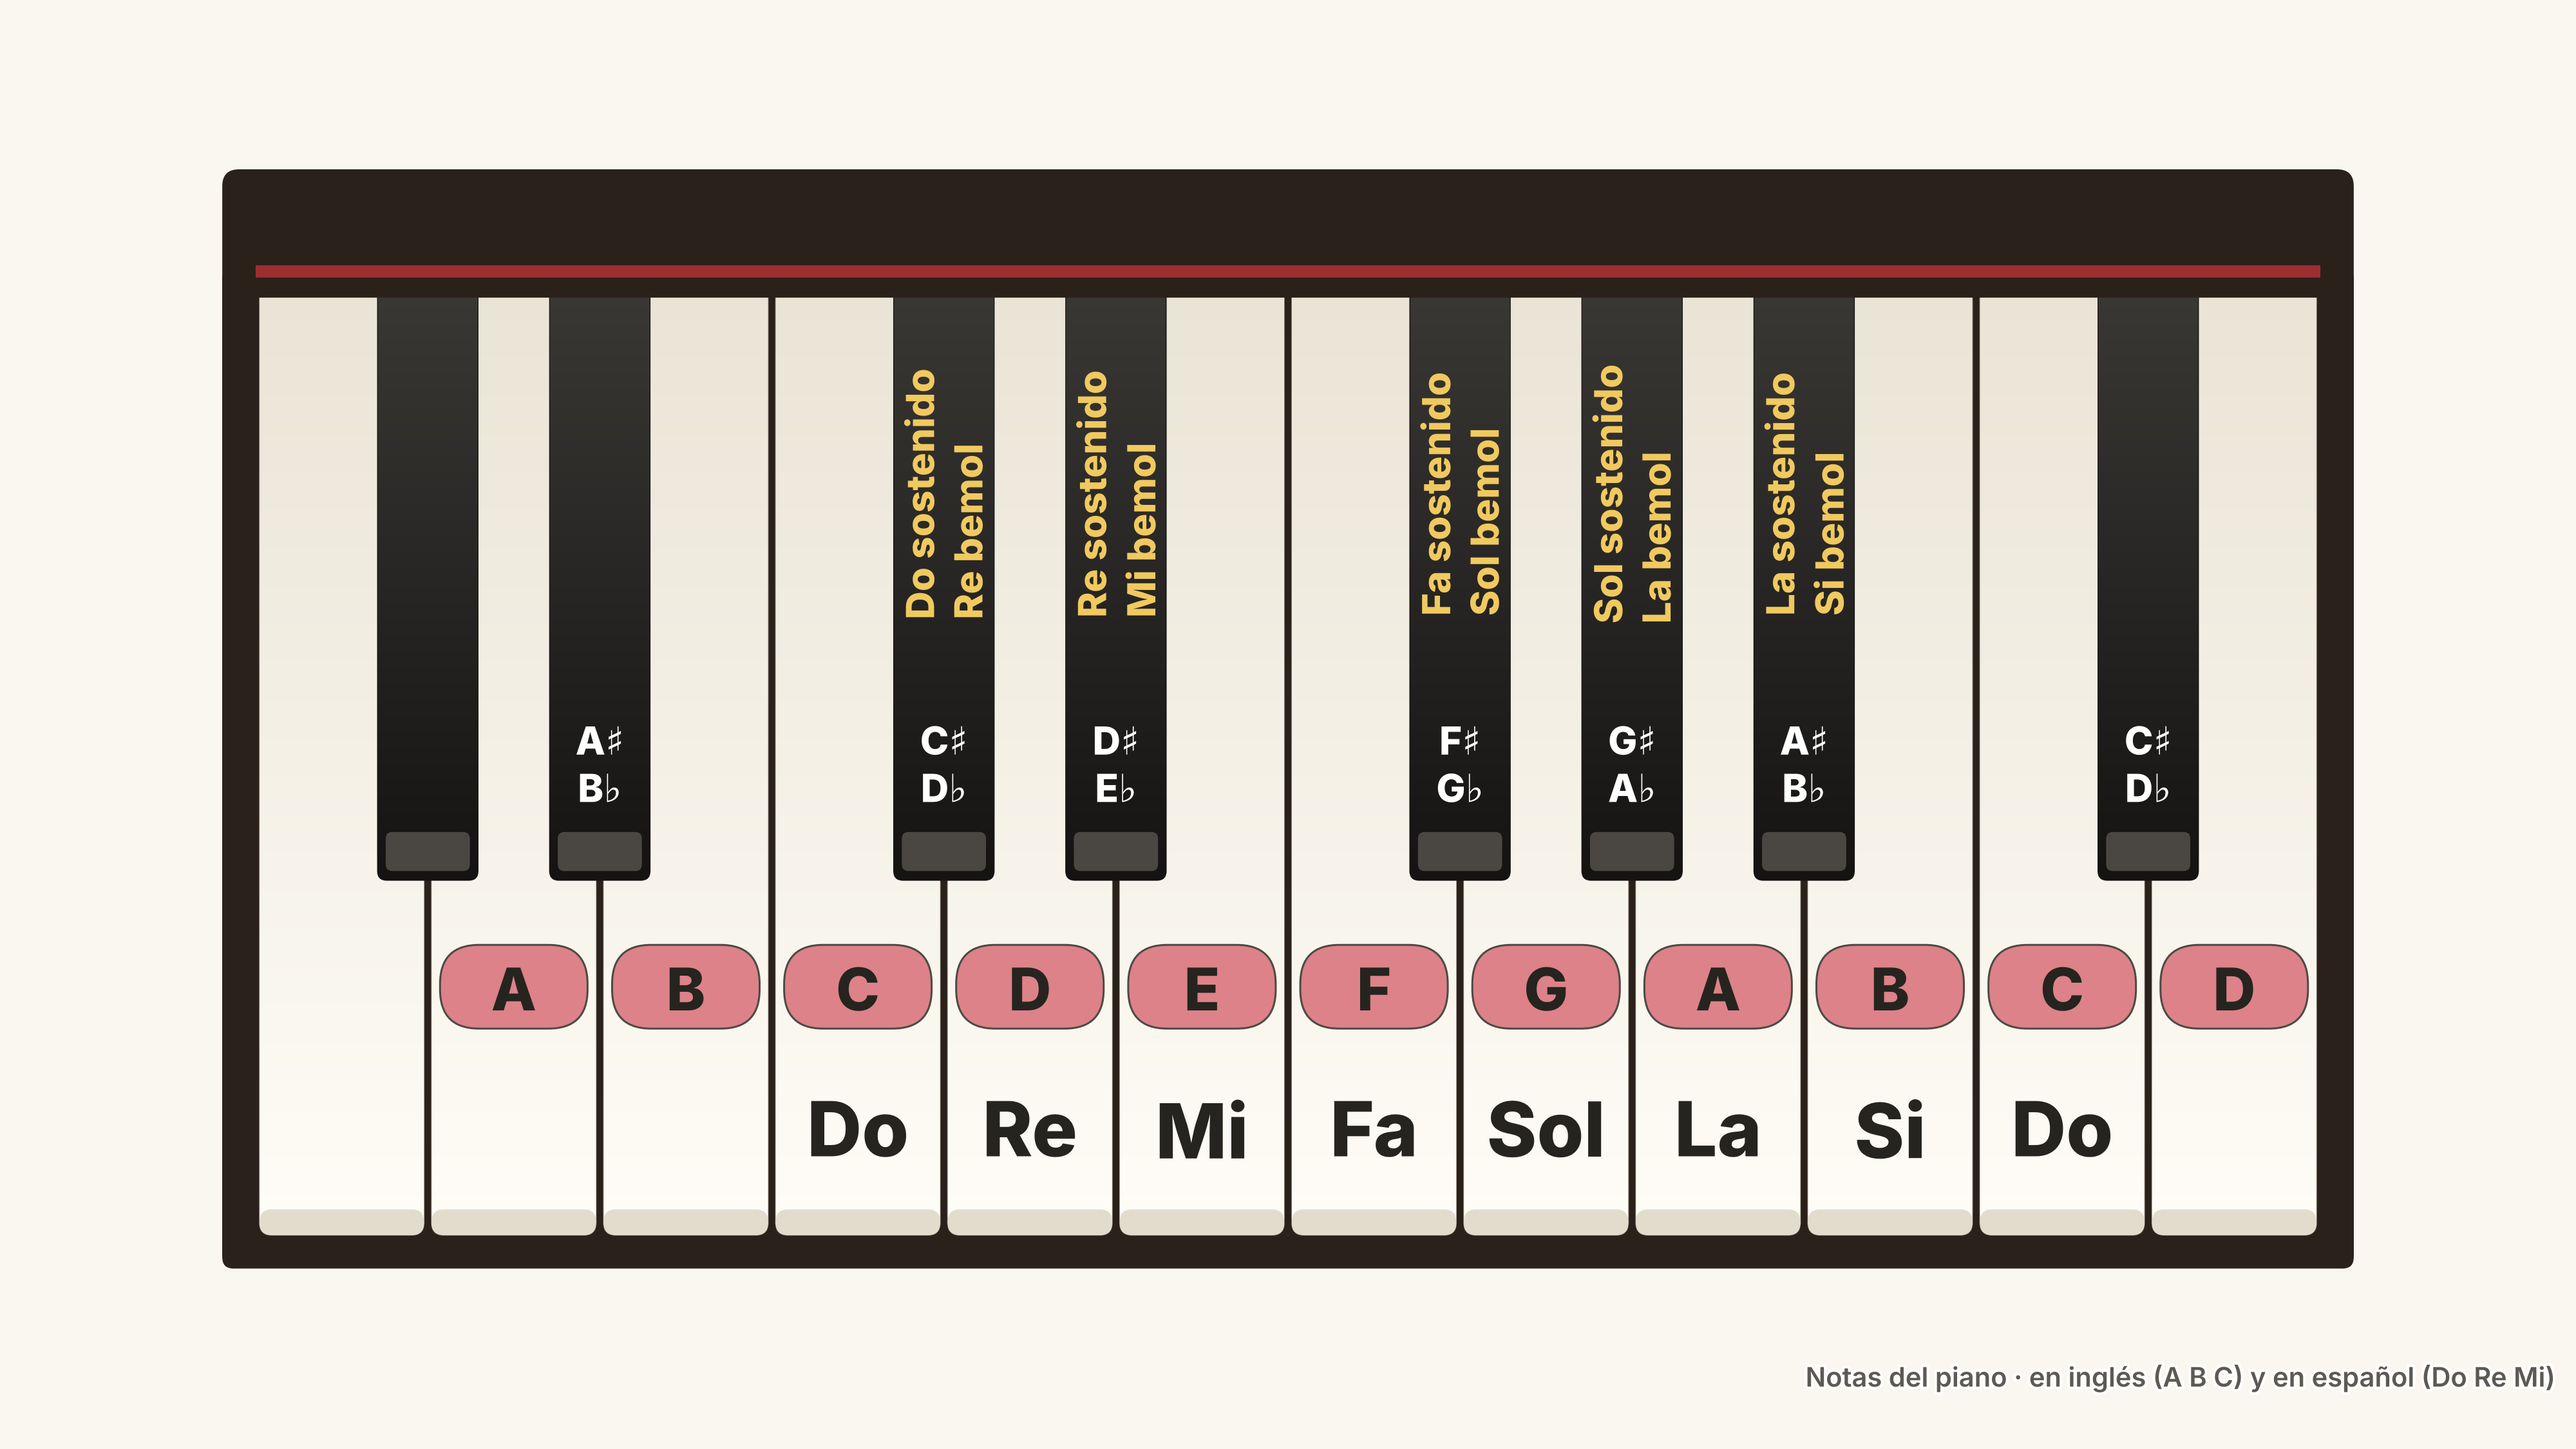
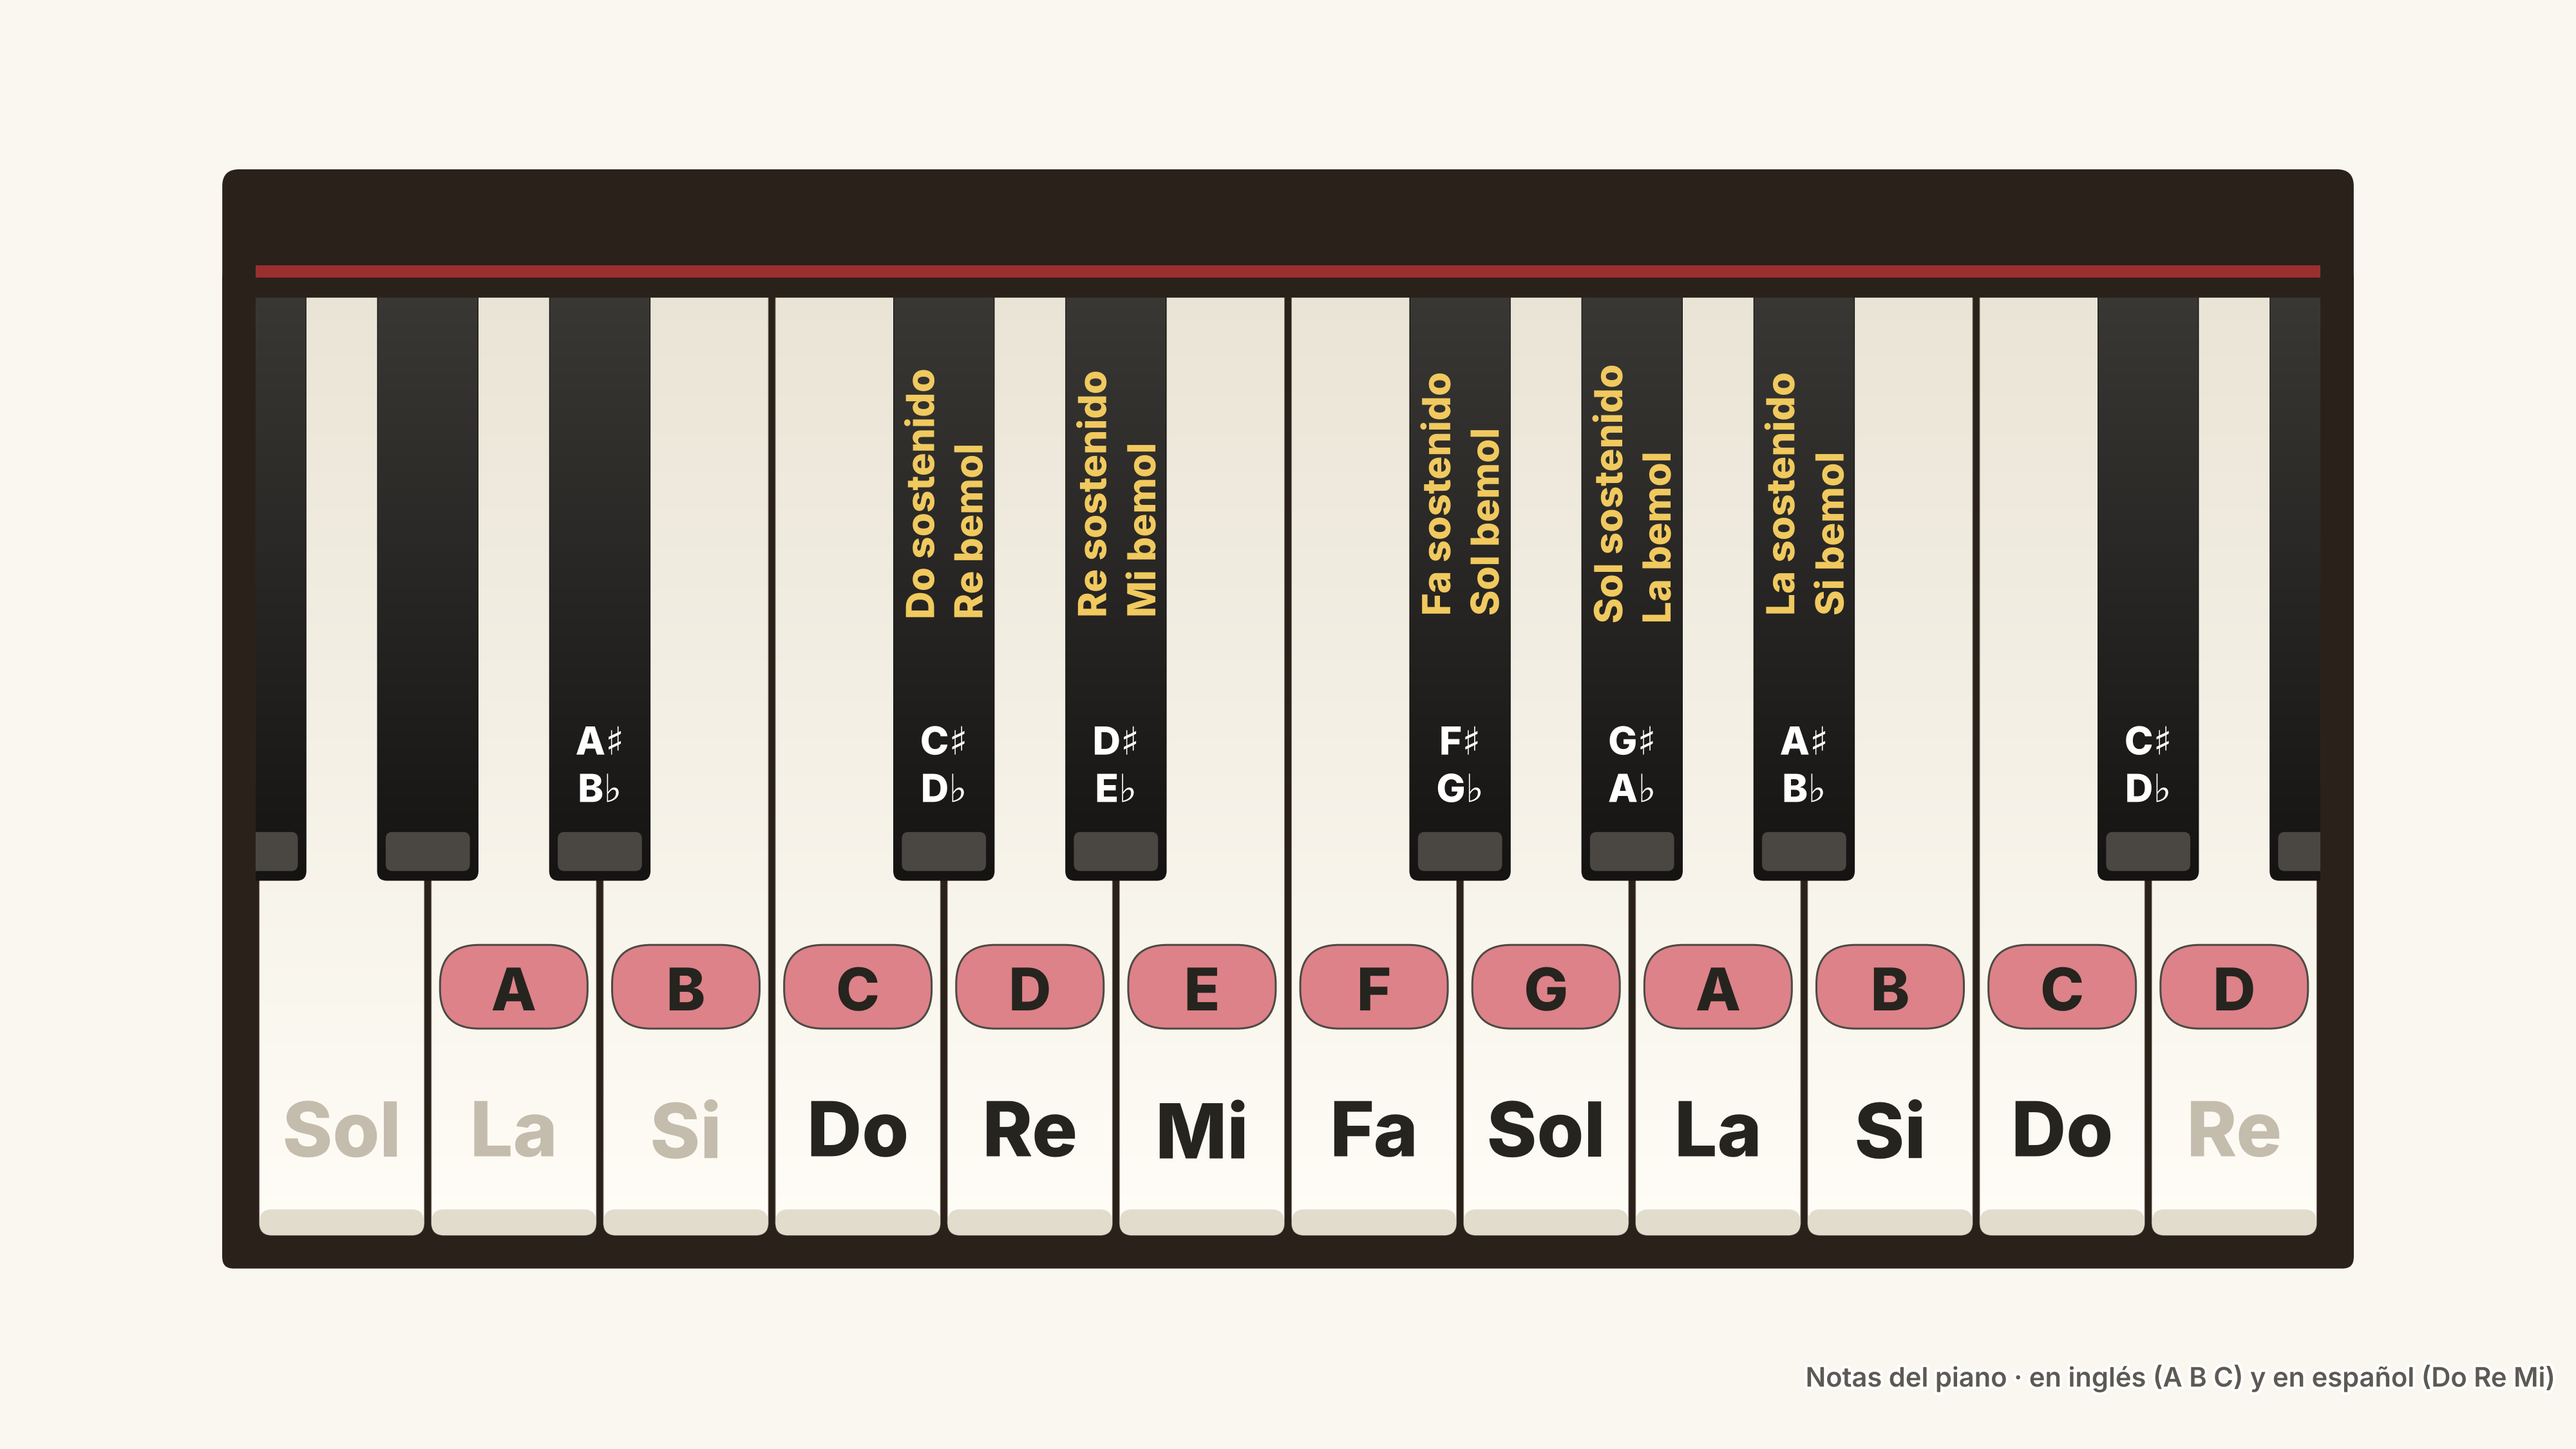
Piano: greyed solfège past the Do..Do octave, half black keys at both edges
Claude-Session: https://claude.ai/code/session_01EDKfW2ymmeBjWjJB1i7hni

diff --git a/tvmaps/maps_piano.py b/tvmaps/maps_piano.py
@@ -4,7 +4,9 @@ uses the same canvas, fonts, footer and palette.
 
 The keyboard runs from G (unlabelled, so the first name you read is A) up to
 the D above the second C. Letters go on every key from that A onwards; the
-solfège covers one octave, Do to Do. Black keys carry both sharp and flat
+solfège covers one octave, Do to Do, and carries on greyed out over the
+keys either side. Half black keys cut off at both ends keep the first G and
+the last D from reading as an F and a B. Black keys carry both sharp and flat
 names; inside that octave also the Spanish ones, spelled out ("Do sostenido",
 "Re bemol") and running up the key.
 
@@ -30,6 +32,13 @@ SOLFEO = {"C": "Do", "D": "Re", "E": "Mi", "F": "Fa", "G": "Sol", "A": "La",
 # A black key sits after these white keys (no black key after B or E).
 HAS_SHARP_AFTER = {"C", "D", "F", "G", "A"}
 NEXT = {"C": "D", "D": "E", "F": "G", "G": "A", "A": "B"}
+
+ORDER = "CDEFGAB"
+
+# Solfège outside the Do..Do octave: present but greyed out.
+GHOST_TEXT = "#c4bcac"
+GHOST_PILL = "#f1ece1"
+GHOST_EDGE = "#c4bcac"
 
 SHARP, FLAT = "♯", "♭"
 
@@ -181,44 +190,63 @@ def _render(theme_name, footer, big="letras", name=None):
 
         cx = x + kw / 2
         letter = note if i >= FIRST_LABEL else None
-        solfeo = (SOLFEO[note] if SOLFEO_RANGE[0] <= i <= SOLFEO_RANGE[1]
-                  else None)
+        # Outside the Do..Do octave the solfège is still shown, greyed out,
+        # so the names visibly carry on past both ends.
+        solfeo = SOLFEO[note]
+        ghost = not SOLFEO_RANGE[0] <= i <= SOLFEO_RANGE[1]
         large, boxed = (letter, solfeo) if big == "letras" else (solfeo, letter)
+        large_ghost = ghost and big == "solfeo"
+        boxed_ghost = ghost and big == "letras"
         if large:
             # "Sol" is the widest name; 98 pt keeps it clear of the key edges.
             size = 140 if big == "letras" else 98
             halo = "#ffffff" if theme_name == "colores" else None
             _text(ax, cx, KEY_BOTTOM + 190, large, size, "extrabold",
-                  style.LABEL_COLOR, halo=halo, halo_width=14, scale=scale)
+                  GHOST_TEXT if large_ghost else style.LABEL_COLOR,
+                  halo=halo, halo_width=14, scale=scale)
         if boxed:
             py = KEY_BOTTOM + 445
             pill_w, pill_h = kw - 44, 150
-            ax.add_patch(_key_patch(cx - pill_w / 2, py - pill_h / 2, pill_w,
-                                    pill_h, 70, facecolor=t["pill"],
-                                    edgecolor=style.BORDER_DARK,
-                                    linewidth=2.5 * scale, zorder=8))
+            ax.add_patch(_key_patch(
+                cx - pill_w / 2, py - pill_h / 2, pill_w, pill_h, 70,
+                facecolor=GHOST_PILL if boxed_ghost else t["pill"],
+                edgecolor=GHOST_EDGE if boxed_ghost else style.BORDER_DARK,
+                linewidth=2.5 * scale, zorder=8))
             _text(ax, cx, py - 4, boxed, 76, "extrabold",
-                  t["pill_text"], zorder=9, scale=scale)
+                  GHOST_TEXT if boxed_ghost else t["pill_text"], zorder=9,
+                  scale=scale)
 
-    # Black keys, on the boundary after each C, D, F, G, A.
-    for i, note in enumerate(WHITE[:-1]):
+    # Black keys, on the boundary after each C, D, F, G, A. That includes
+    # both outer edges: without the half key cut off there, the first G
+    # would read as an F and the last D as a B.
+    xend = x0 + n * kw
+    keyboard = Rectangle((x0, KEY_BOTTOM - 100), n * kw, klen + 400,
+                         transform=ax.transData)
+    before_first = ORDER[(ORDER.index(WHITE[0]) - 1) % 7]
+    for i, note in enumerate([before_first] + WHITE):
         if note not in HAS_SHARP_AFTER:
             continue
-        bx = x0 + (i + 1) * kw - bw / 2
+        bx = x0 + i * kw - bw / 2
         by = KEY_TOP - blen
         patch = _key_patch(bx, by, bw, blen + 60, 16, facecolor=t["black"],
                            edgecolor="#141311", linewidth=2 * scale,
                            zorder=12)
         ax.add_patch(patch)
+        patch.set_clip_path(keyboard)
         if theme_name == "clasico":
-            _gradient(ax, (bx, by, bx + bw, KEY_TOP),
+            _gradient(ax, (max(bx, x0), by, min(bx + bw, xend), KEY_TOP),
                       "#3b3936", "#151413", patch, zorder=13)
-            ax.add_patch(_key_patch(bx + 14, by + 16, bw - 28, 70, 12,
-                                    facecolor="#4a4743", edgecolor="none",
-                                    zorder=14))
+            bevel = _key_patch(bx + 14, by + 16, bw - 28, 70, 12,
+                               facecolor="#4a4743", edgecolor="none",
+                               zorder=14)
+            ax.add_patch(bevel)
+            bevel.set_clip_path(keyboard)
+        if i in (0, n):
+            continue  # the cut-off edge keys stay unnamed
 
         cx = bx + bw / 2
         upper = NEXT[note]
+        i -= 1  # index of the white key to the left, as below
         if i + 1 > FIRST_LABEL:
             _text(ax, cx, by + 250, f"{note}{SHARP}", 50, "extrabold",
                   t["black_text"], zorder=15, scale=scale)
